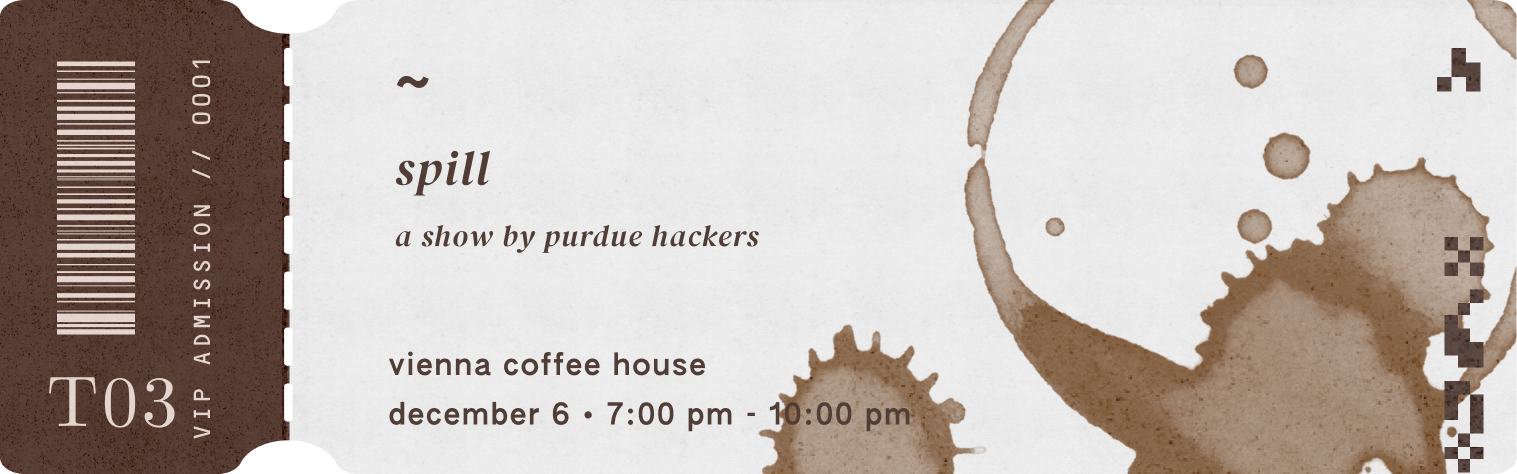
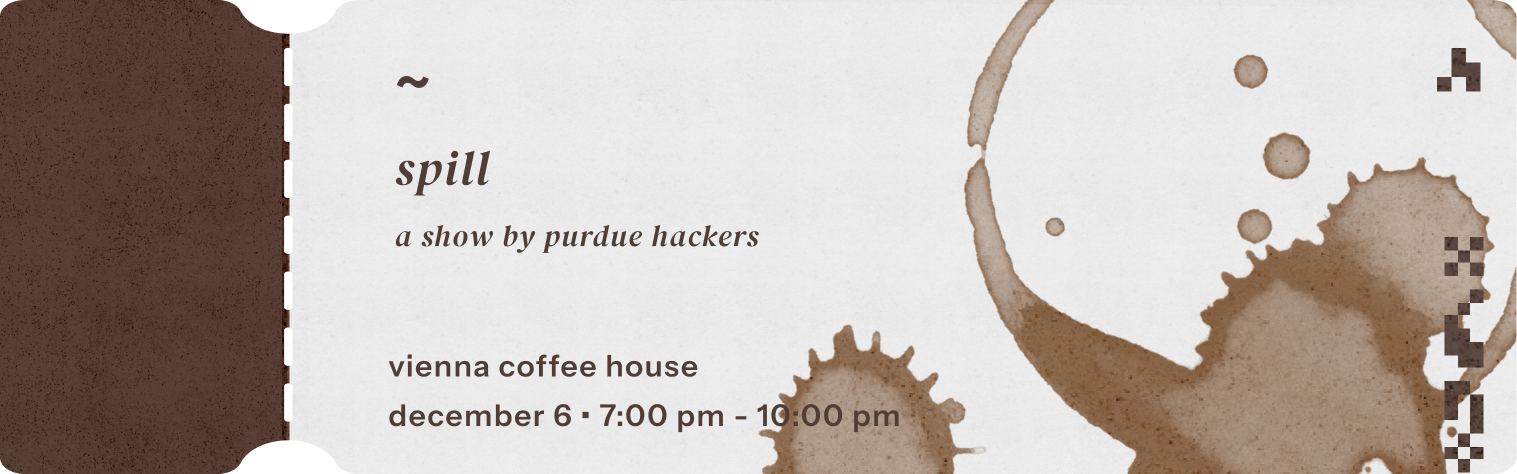
alignment for text on landscape tickets

diff --git a/src/components/Ticket.tsx b/src/components/Ticket.tsx
@@ -4,10 +4,11 @@ interface TicketProps {
     name: string;
     number: string;
     ticketDesign: string; // file path to ticket image
+    ticketColor: string;
     mousePos: { x: number; y: number } | null;
 }
 
-export default function Ticket({ name, number, ticketDesign, mousePos }: TicketProps) {
+export default function Ticket({ name, number, ticketDesign, ticketColor, mousePos }: TicketProps) {
     const [relativeMousePos, setRelativeMousePos] = useState<{ x: number; y: number }>({ x: 0, y: 0 });
 
     useEffect(() => {
@@ -29,19 +30,22 @@ export default function Ticket({ name, number, ticketDesign, mousePos }: TicketP
     if (!isPortrait) {
         return (
             <div id="ticket-container" 
-                className="z-10 scale-115 rotate-15 translate-y-20 w-fit h-fit mx-auto"
+                className="relative z-10 scale-115 rotate-20 translate-y-0 w-fit h-fit mx-auto"
                 style={{
                     '--ticket-width-large': '496px',
+                    '--ticket-height-large': '200px',
                     transform: `perspective(3000px) rotateX(${relativeMousePos.y * 0.06}deg) rotateY(${-relativeMousePos.x * 0.06}deg) rotateZ(${-relativeMousePos.x * 0.06}deg)`
                 } as React.CSSProperties}
             >
-                <img className="w-full md:w-[var(--ticket-width-large)] h-fit object-contain drop-shadow-lg"
+                <img className="w-full md:w-[var(--ticket-width-large)] h-fit object-contain drop-shadow-lg text-fern text-light-brown"
                     src={ticketDesign} 
                     alt="Ticket" 
                     crossOrigin="anonymous"/>
-                <div className="hidden absolute bottom-0 -left-0 w-full h-[calc(var(--ticket-height-large)_*_.19)] flex items-center justify-center">
-                    <div className="w-[70%] h-[55%] text-fern uppercase flex flex-col justify-between">
-                        <div className="text-[12px] font-mono flex justify-between">
+                
+                {/* Side text */}
+                <div className=" w-[31%] h-[60%] absolute -left-7 top-1/2 -translate-y-1/2 rotate-90 origin-center flex items-center justify-center pointer-events-none">
+                    <div className={`w-[84%] h-[40%] text-${ticketColor === 'green' ? 'fern' : 'light-brown'} uppercase flex flex-col justify-between`}>
+                        <div className="text-[9px] font-mono flex justify-between origin-center rotate-180">
                             <div>
                                 {name.concat(' ').padEnd(12, '*')}
                             </div>
@@ -50,10 +54,10 @@ export default function Ticket({ name, number, ticketDesign, mousePos }: TicketP
                             </div>
                         </div>
                         <div className="flex items-center justify-between gap-0">
-                            <div className="scale-y-120 h-2/3 font-barcode text-5xl leading-none">
+                            <div className="scale-y-120 h-2/3 font-barcode text-4xl leading-none">
                                 purdueha
                             </div>
-                            <div className="-rotate-90 translate-x-2 font-serif text-[26px]">
+                            <div className="-rotate-90 translate-x-2 font-serif text-[20px]">
                                 PH
                             </div>
                         </div>

diff --git a/src/components/TicketCustomization.tsx b/src/components/TicketCustomization.tsx
@@ -198,9 +198,9 @@ export default function TicketCustomization() {
                                 />
                             </div>
 
-                            {/* Drink */}
+                            {/* Color */}
                             <div className="flex flex-col gap-2">
-                                <label className="text-xs font-bold lowercase" htmlFor="ticket-type">Drink</label>
+                                <label className="text-xs font-bold lowercase" htmlFor="ticket-type">Flavor</label>
                                 <ToggleGroup 
                                     value={ticketColor === 'green' ? 'tea' : 'coffee'}
                                     onValueChange={handleTicketColorChange}
@@ -214,10 +214,10 @@ export default function TicketCustomization() {
                             </div>
                         </div>
 
-                        {/* Flavor */}
+                        {/* Design */}
                         <div className="flex flex-col gap-2">
                             <label className="text-xs font-bold lowercase" htmlFor="ticket-design">
-                                Flavor
+                                Design
                             </label>
                             <select value={ticketDesign.split('/').pop() || ''} 
                                 onChange={(e) => handleTicketDesignChange(e.target.value)}
@@ -285,7 +285,7 @@ export default function TicketCustomization() {
 
                 {/* Ticket */ }
                 <div className="z-15 absolute inset-0 w-full h-full flex items-center justify-center">
-                    <Ticket name={name} number={number} ticketDesign={ticketDesign} mousePos={mousePos} />
+                    <Ticket name={name} number={number} ticketDesign={ticketDesign} ticketColor={ticketColor} mousePos={mousePos} />
                 </div>
 
                 {/* Sticky NoteText Overlay */}

diff --git a/src/styles/global.css b/src/styles/global.css
@@ -9,6 +9,7 @@
   --moss: #a0a041;
   --matcha: #6b8034;
   --cream: #ecdbbf;
+  --light-brown: #d0c1b6;
   --chocolate: #744726;
   --coffee-light: #896258;
 
@@ -36,6 +37,7 @@
   --color-moss: var(--moss);
   --color-matcha: var(--matcha);
   --color-cream: var(--cream);
+  --color-light-brown: var(--light-brown);
   --color-chocolate: var(--chocolate);
   --color-coffee-light: var(--coffee-light);
   --color-red-clay: var(--red-clay);

diff --git a/src/data/ticketDesigns.ts b/src/data/ticketDesigns.ts
@@ -9,6 +9,10 @@ export const ticketDesigns = {
         green: [
             {
                 filename: 'matcha-latte.png',
+                name: 'matcha latte',
+            },
+            {
+                filename: 'matcha.png',
                 name: 'matcha',
             },
             {
